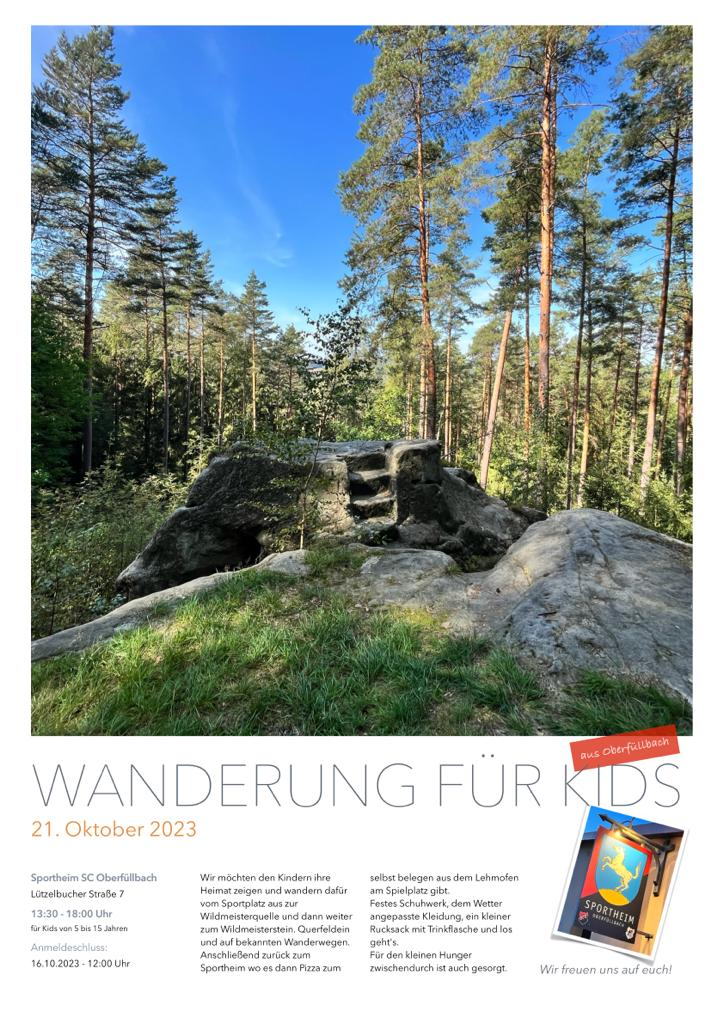
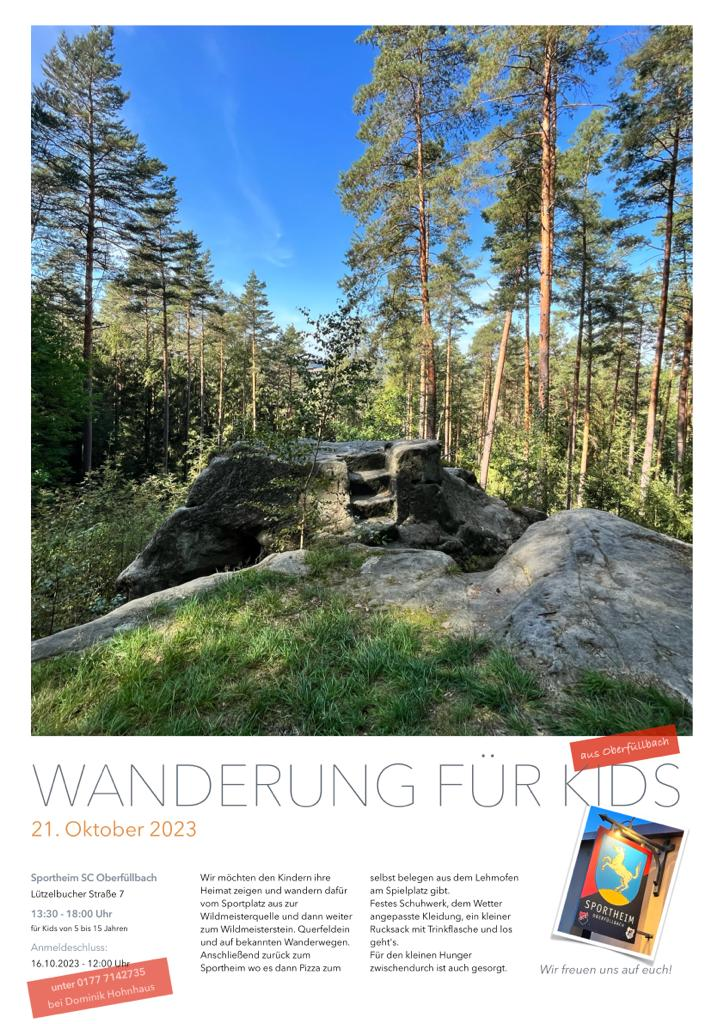
update date

Changed region(s): [[0.0304, 0.9375, 0.2431, 1.0]]

diff --git a/src/content/veranstaltungen/2023-10-03-kinder-wanderung.md b/src/content/veranstaltungen/2023-10-03-kinder-wanderung.md
@@ -1,7 +1,7 @@
 ---
 title: Wanderung für Kids
 pubDate: 2023-10-03T13:30:23.138Z
-eventDate: 2023-10-21T13:30:23.138Z
+eventDate: 2023-10-21T11:30:23.138Z
 location: Sportheim
 heroImage: /assets/wanderung_fuer_kids.jpeg
 ---
